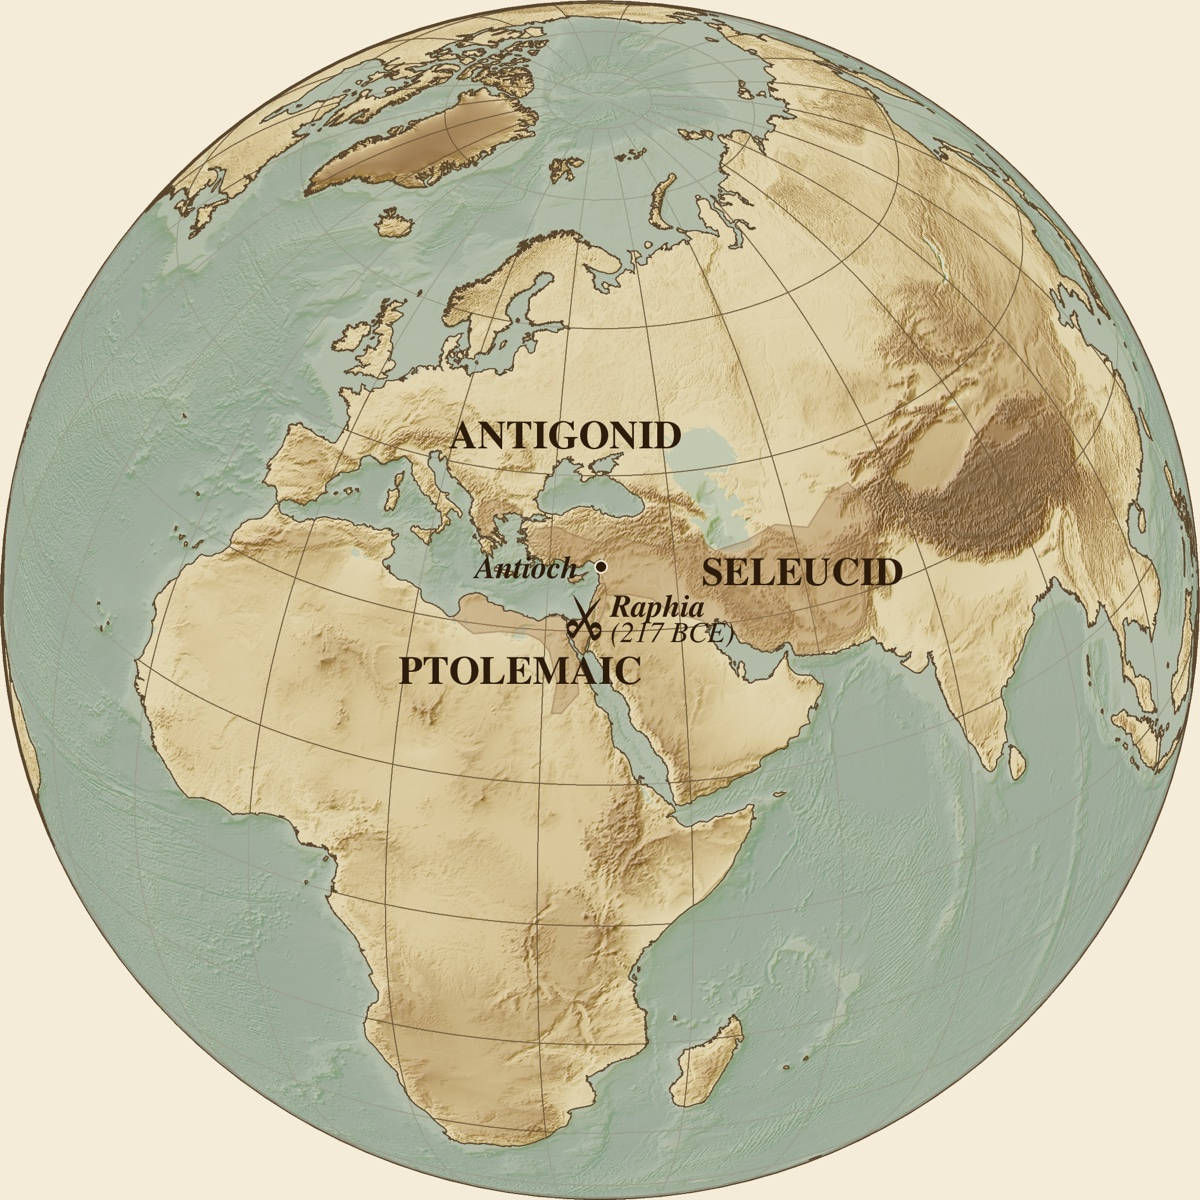
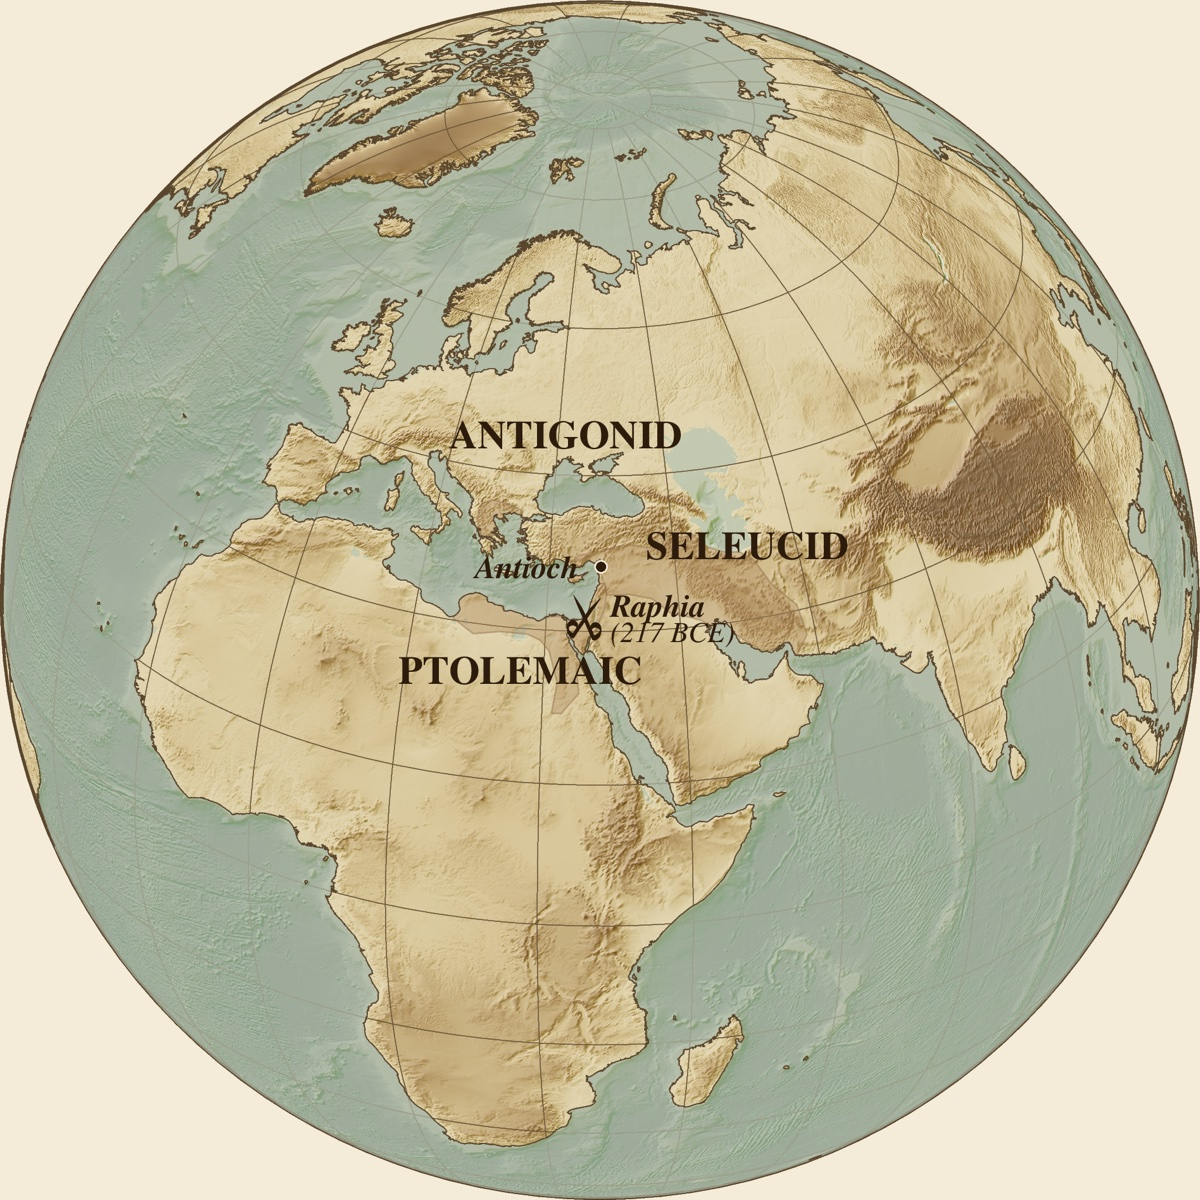
post(2ad): retell Raphia in the Ancient World post
Rewrite the body around the book's account of Raphia, 217 BCE, and
re-date the globe's kingdom borders to that year, as the text has it.

Changed region(s): [[0.5242, 0.4008, 0.7708, 0.4933], [0.6783, 0.5242, 0.7092, 0.555], [0.4317, 0.4317, 0.4625, 0.4625]]

diff --git a/2ad/content/posts/2005/09.warfare.in.the.ancient.world.md b/2ad/content/posts/2005/09.warfare.in.the.ancient.world.md
@@ -4,9 +4,9 @@ tags: books, cartography, warfare
 category: history
 date: 2005-09-30
 modified: 2026-10-01
-summary: Published 30 September 2005 by Pen & Sword: two millennia of war, from the first armies of Mesopotamia to the fall of Rome.
+summary: Published 30 September 2005 by Pen & Sword: two thousand years of war, from the first armies of Mesopotamia and Egypt to the fall of the Western Roman Empire.
 
-![The Hellenistic world, c. 275 BCE, on a globe centred on the eastern Mediterranean]({static}/images/2005/hellenistic-world.jpg){: width=440 style="float:right; padding:0 0 16px 24px"}
+![The Hellenistic world in 217 BCE, the year of Raphia, on a globe centred on the eastern Mediterranean]({static}/images/2005/hellenistic-world.jpg){: width=440 style="float:right; padding:0 0 16px 24px"}
 
 <p style="font-size:2.4em;line-height:1.1;margin:0 0 .5em;font-weight:bold;">Warfare in the Ancient World</p>
 
@@ -18,25 +18,30 @@ summary: Published 30 September 2005 by Pen & Sword: two millennia of war, from 
 
 Published 30 September 2005.
 
-The book follows two thousand years of war, from the first armies of Mesopotamia and Egypt to
-the fall of the Western Roman Empire. Brian's thread is the combined-arms system: heavy and light
-infantry, heavy and light cavalry, and how each army learned to use them together. Chariots at
-Megiddo, the Greek phalanx, Alexander's Macedonian army and the Roman legion each take their
-turn, and each battle comes with multi-phase tactical maps.
+The book follows two thousand years of war, from the first armies of Mesopotamia and Egypt
+through the fall of the Western Roman Empire. Carey's combined-arms system follows heavy and
+light infantry, heavy and light cavalry, and how each army learned to use them together.
 
-Reviewers found it dense but rewarding. The World History Encyclopedia praised the depth on arms,
-armour and tactics, and HistoryOfWar.org called it a good starting point for the serious reader.
+### Raphia, 217 BCE
 
-The globe shows the world after Alexander, when his generals had split his empire among them:
-the Antigonids in Macedon, the Seleucids from Syria to Bactria, and the Ptolemies in Egypt.
-Antioch was the Seleucid capital. At Raphia in 217 BCE, the two great successor kingdoms met
-in one of the largest battles of the age.
+Antiochus III came to the Seleucid throne in 233 BCE. He "inherited little more than the
+capital of Antioch" (*Warfare in the Ancient World*, p. 154). Parthia had taken the east, and
+decades of war with Ptolemaic Egypt had worn down the west. To win back his inheritance, he
+marched south from Syria and met Ptolemy IV at Raphia, on the frontier of Palestine and Egypt.
 
-Brian was my history professor in college. When he needed a regional map illustrator, I had
-been doing computer cartography at MapQuest, LandVoyage and Rand McNally. We built each regional
-map from a GMT projection, then finished it in Illustrator. I drew this globe new for this
-post, with GMT 6 and ETOPO 2022 from my [bedrock](https://github.com/jac18281828/bedrock)
-image.
+Antiochus brought over 62,000 infantry, 6,000 cavalry and 102 Indian war elephants raised in
+Bactria. Ptolemy answered with over 45,000 infantry, 4,000 cavalry and some seventy-three
+African elephants. Both kings put their phalanx in the centre and their elephants in front of
+the wings.
 
-The print editions are out of stock; the ebook is available from
-[Pen & Sword](https://www.penandswordbooks.com/9781781592632/warfare-in-the-ancient-world/).
+Antiochus's elephants drove back the smaller African elephants on his right, and his cavalry
+chased Ptolemy's guard from the field. On the other wing, Ptolemy's elephants refused to charge,
+but his Greek mercenary hoplites and cavalry broke the Seleucid left anyway. In the centre,
+Ptolemy's larger phalanx carried the day. Antiochus rode back from his pursuit to find his army
+in retreat, short 10,000 infantry, 300 horse and fifteen elephants; Ptolemy lost 1,500
+infantry, 700 horse and sixteen elephants.
+
+Raphia shows what elephants can and cannot do: decisive on one wing, unwilling on the other.
+
+[Warfare in the Ancient World](https://www.penandswordbooks.com/9781781592632/warfare-in-the-ancient-world/)
+is available as an ebook from Pen & Sword.
